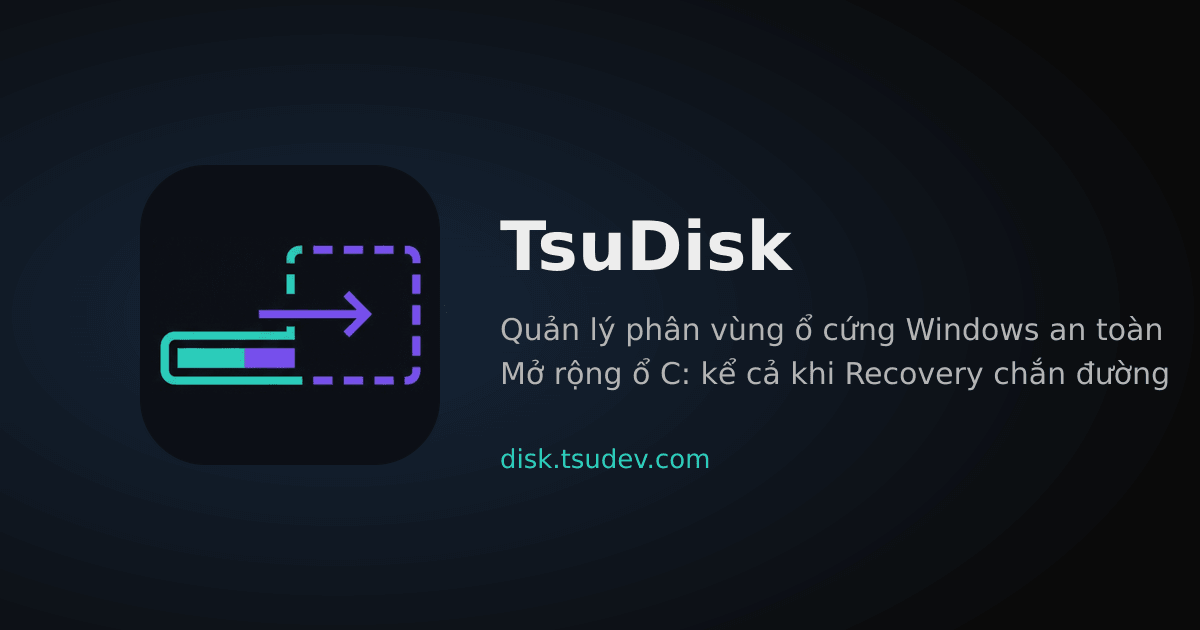
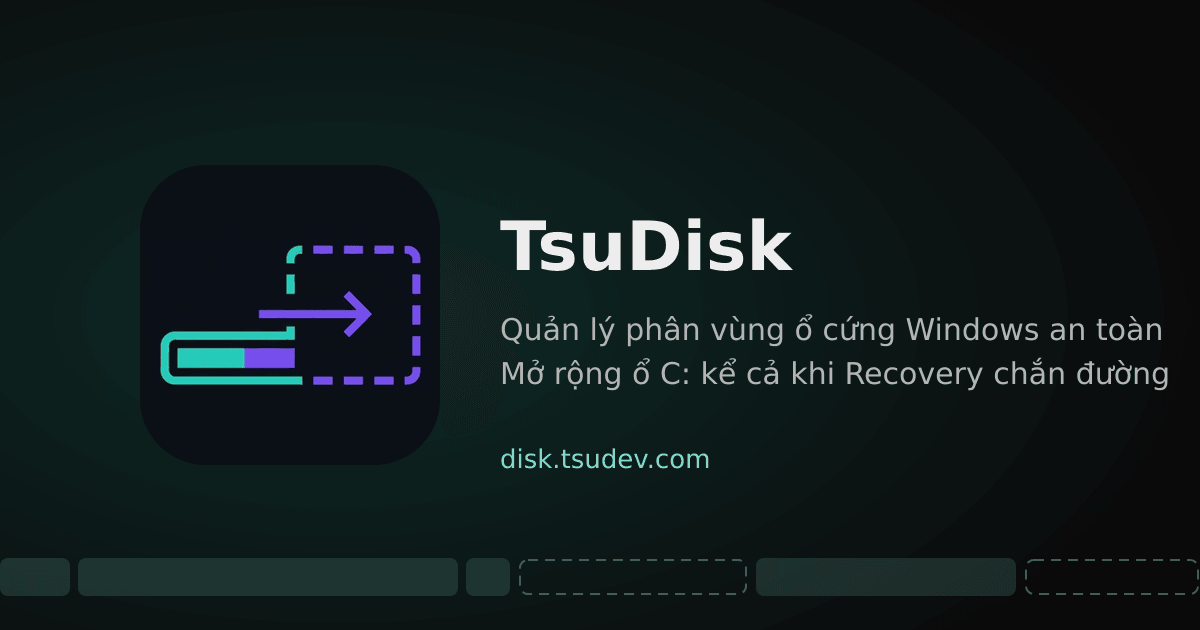
feat(ui): bố cục cong-cu + hoạ tiết khoi-phan-vung (phiếu STD50 PR 2) (#53)
- Trang chủ: vùng thao tác chính ngay màn đầu, căn giữa - bàn 3 bước (tải exe,
  phan-tich chỉ đọc, ke-hoach chưa đổi gì); giới thiệu nằm dưới. Bỏ logo lớn trùng header.
- Hoạ tiết tĩnh khoi-phan-vung (thanh chia phân vùng, accent/glow) ở hero và og-image
  (brand.json ogMotif, cùng toạ độ). ogGlow/ogAccent theo products/disk.json.
- Ảnh trước/sau Sáng + Tối: docs/ui/bo-cuc-cong-cu/. Phiếu STD50 ĐÓNG.

Changed region(s): [[0.0, 0.8746, 0.4317, 0.9651], [0.6167, 0.8746, 0.8633, 0.9651], [0.4008, 0.7238, 0.5858, 0.754]]

diff --git a/website/src/styles/site.css b/website/src/styles/site.css
@@ -81,7 +81,22 @@ pre {
 .nut--phu:hover { background: var(--bg-hover); border-color: var(--text-muted); color: var(--text-primary); }
 
 /* Trang chủ: hero canh giữa */
-.mo-dau { padding: 5rem 0 3rem; text-align: center; }
+.mo-dau { padding: 3.5rem 0 3rem; text-align: center; }
+/* Hoạ tiết khoi-phan-vung: thanh đĩa tĩnh phía trên tiêu đề, không nằm sau chữ */
+.hoa-tiet { display: block; width: 100%; max-width: 32rem; height: 1.5rem; margin: 0 auto 1.5rem; }
+.hoa-tiet__khoi { fill: var(--accent); opacity: 0.15; }
+.hoa-tiet__trong { fill: var(--glow); stroke: var(--accent); stroke-opacity: 0.35; stroke-width: 2; stroke-dasharray: 8 6; vector-effect: non-scaling-stroke; }
+
+/* Bố cục `cong-cu`: vùng thao tác chính ngay màn đầu, căn giữa */
+.ban-thao-tac { max-width: 44rem; margin: 0 auto; text-align: left; background: var(--bg-surface); border: 1px solid var(--border-strong); border-radius: var(--radius-lg); padding: 1.25rem 1.25rem 1rem; box-shadow: 0 0 0 6px var(--glow); }
+.ban-thao-tac__tieu-de { margin: 0 0 0.75rem; font-size: 1.05rem; }
+.ban-thao-tac__buoc { list-style: none; margin: 0; padding: 0; display: grid; gap: 0.5rem; }
+.ban-thao-tac__buoc li { display: grid; grid-template-columns: auto 1fr auto; gap: 0.9rem; align-items: center; padding: 0.75rem; border: 1px solid var(--border); border-radius: var(--radius-md); background: var(--bg-base); }
+.ban-thao-tac__so { display: inline-flex; align-items: center; justify-content: center; width: 2rem; height: 2rem; border-radius: var(--radius-md); font-family: var(--font-display); font-weight: 700; color: var(--on-primary); background: var(--primary); }
+.ban-thao-tac__noi-dung h3 { margin: 0; font-size: 1rem; }
+.ban-thao-tac__noi-dung p { margin: 0.15rem 0 0; color: var(--text-secondary); font-size: 0.92rem; }
+.ban-thao-tac__lenh { white-space: nowrap; padding: 0.4rem 0.7rem; }
+.ban-thao-tac__chan { margin: 0.85rem 0 0; font-size: 0.94rem; text-align: center; }
 .mo-dau__luoi { display: grid; gap: 3rem; justify-items: center; }
 .mo-dau h1 { font-size: clamp(2.1rem, 5vw, 3.4rem); line-height: 1.12; margin: 0 auto 1.1rem; letter-spacing: -0.025em; max-width: 46rem; }
 .chu-tim {
@@ -194,7 +209,9 @@ kbd { border: 1px solid var(--border-strong); border-bottom-width: 2px; border-r
 .giao-dien button:focus-visible { outline-offset: 1px; }
 
 @media (max-width: 860px) {
-  .mo-dau { padding: 3rem 0 2rem; }
+  .mo-dau { padding: 2.5rem 0 2rem; }
+  .ban-thao-tac__buoc li { grid-template-columns: auto 1fr; }
+  .ban-thao-tac__buoc li > :last-child { grid-column: 2; justify-self: start; }
   .tai-lieu { grid-template-columns: 1fr; gap: 1.5rem; padding-top: 1.5rem; }
   .tai-lieu__menu { position: static; }
   .tai-lieu__menu ul { display: flex; flex-wrap: wrap; gap: 0.25rem; }
@@ -226,4 +243,4 @@ kbd { border: 1px solid var(--border-strong); border-bottom-width: 2px; border-r
 }
 
 /* Logo đầy đủ ở trang chủ: ảnh có nền tối riêng, bo góc theo token, không phóng to quá bản gốc. */
-.logo-day-du img { display: block; width: 180px; height: auto; border-radius: var(--radius-lg); margin-bottom: 1rem; }
+.logo-day-du img { display: block; width: 160px; height: auto; border-radius: var(--radius-lg); margin: 0 auto 1rem; }

diff --git a/logs/handover/20261121-STD50_ban-sac-san-pham-v5.0.0.md b/logs/handover/20261121-STD50_ban-sac-san-pham-v5.0.0.md
@@ -2,7 +2,7 @@
 
 - **Mã phiếu**: 20261121-STD50
 - **Từ**: phiên tsudev-standards, 21/11/2026 - **Đến**: phiên kế tiếp của `tsudisk`
-- **Trạng thái**: MỞ
+- **Trạng thái**: ĐÓNG 22/11/2026
 - **Nguồn**: https://github.com/tsudev-org/tsudev-standards/releases/tag/v5.0.0 - `docs/DESIGN_SYSTEM.md` mục 1.2,
   CHANGELOG 5.0.0 "Hướng dẫn nâng cấp"
 - **Bối cảnh**: chủ dự án muốn mỗi sản phẩm có đặc trưng nổi bật riêng (màu, giao diện, bố cục). Trước v5.0.0, 9/11
@@ -46,4 +46,4 @@ kiểm chống trùng phải xanh. KHÔNG ghi đè tại repo này.
 
 ## Kết quả xử lý
 
-- 22/11/2026 (tsudisk-59): PR 1 XONG - #49 (sync v5.0.0, token chung + `products.css`, `data-product="disk"`, xoá bảng màu tự khai, Montserrat, bo góc token, ảnh `docs/ui/ban-sac-v5/`). PR 2 (bố cục + hoạ tiết) cho phiên sau.
+- 22/11/2026 (tsudisk-59): PR 1 XONG - #49 (sync v5.0.0, token chung + `products.css`, `data-product="disk"`, xoá bảng màu tự khai, Montserrat, bo góc token, ảnh `docs/ui/ban-sac-v5/`). PR 2 XONG - bố cục `cong-cu` (bàn thao tác 3 bước ngay màn đầu), hoạ tiết `khoi-phan-vung` ở hero + og-image. Phiếu ĐÓNG.
